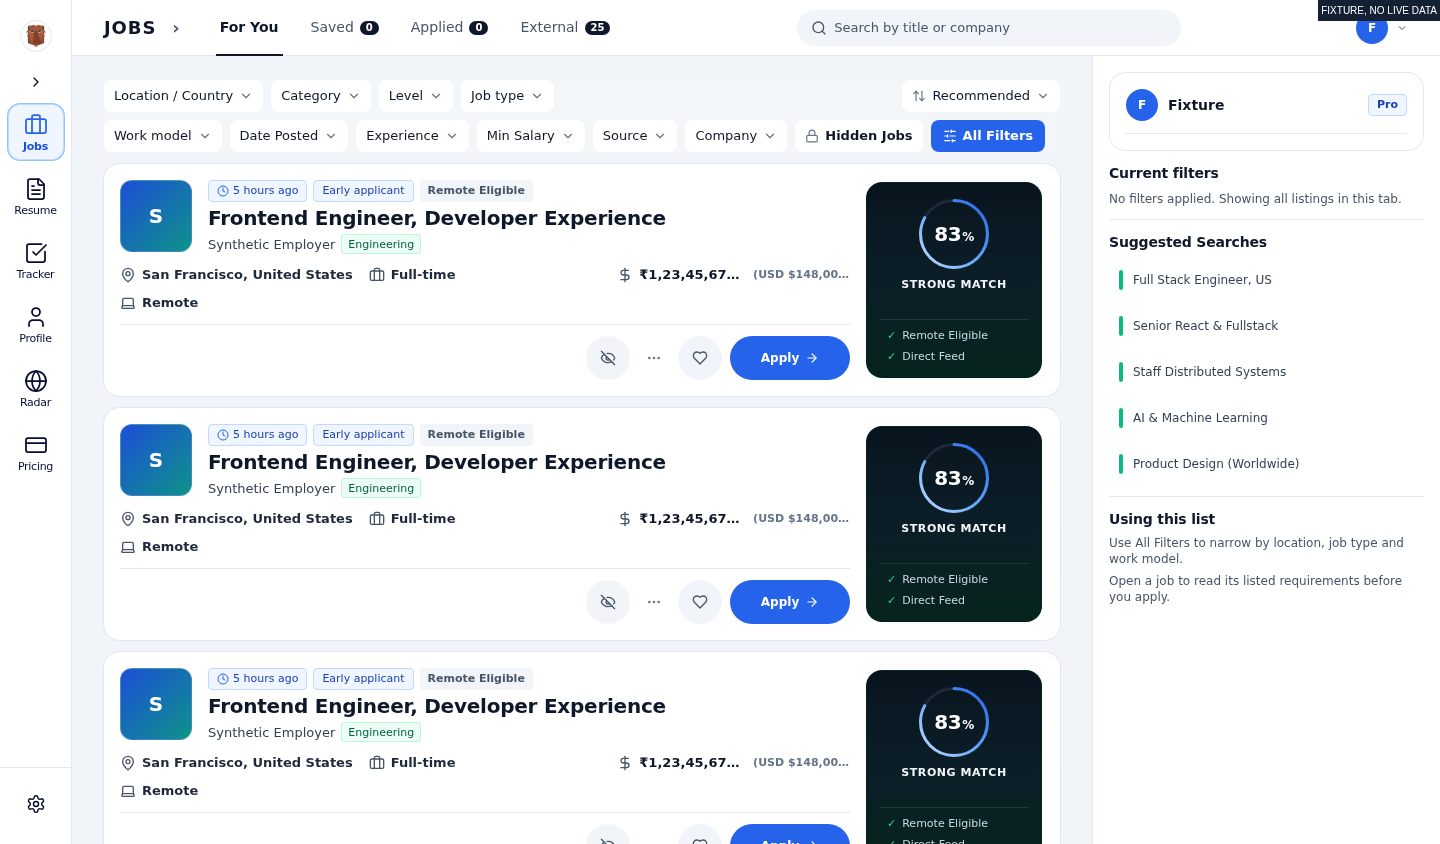
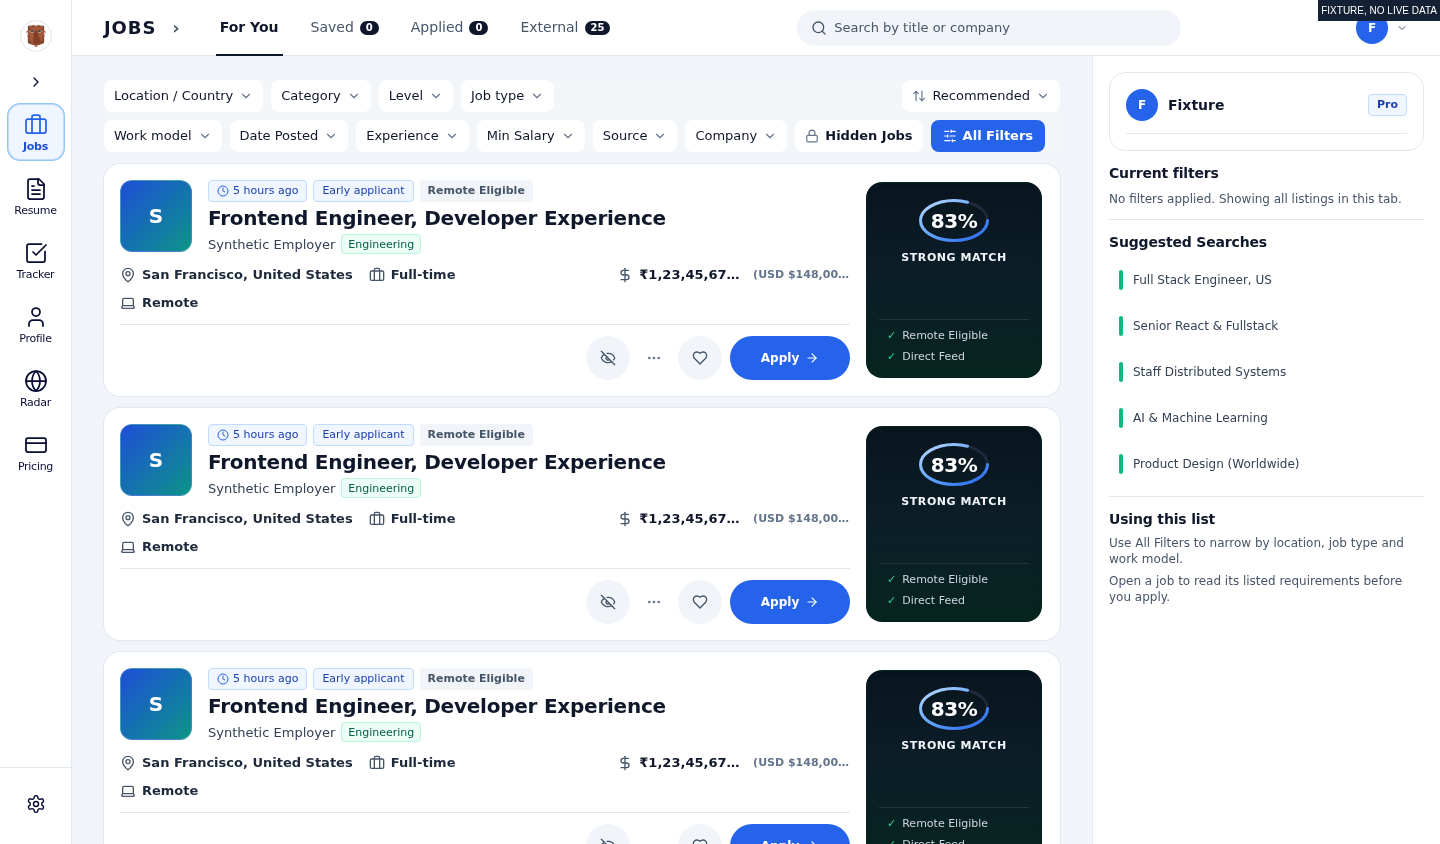
Use oval score outline matching owner reference

Changed region(s): [[0.625, 0.8009, 0.6875, 0.9242], [0.625, 0.5237, 0.6875, 0.6469], [0.625, 0.2156, 0.6875, 0.3389]]

diff --git a/src/app/jobs/page.tsx b/src/app/jobs/page.tsx
@@ -325,17 +325,18 @@ function CircularMatchRing({
 }) {
   const gradientId = `match-blue-${useId().replace(/:/g, "")}`;
   const displayScore = Math.min(100, Math.max(0, score));
-  const radius = (size - strokeWidth) / 2;
-  const circumference = 2 * Math.PI * radius;
-  const offset = circumference - (displayScore / 100) * circumference;
+  const height = Math.round(size * 0.62);
+  const radiusX = (size - strokeWidth) / 2;
+  const radiusY = (height - strokeWidth) / 2;
+  const offset = 100 - displayScore;
   const textClass = size >= 75 ? "text-2xl font-black" : size >= 65 ? "text-xl font-black" : size >= 50 ? "text-[16px] font-bold" : "text-[13px] font-bold";
 
   return (
     <div
       className="relative inline-flex items-center justify-center shrink-0"
-      style={{ width: size, height: size }}
+      style={{ width: size, height }}
     >
-      <svg aria-hidden="true" className="w-full h-full -rotate-90" viewBox={`0 0 ${size} ${size}`}>
+      <svg aria-hidden="true" className="w-full h-full" viewBox={`0 0 ${size} ${height}`}>
         <defs>
           <linearGradient id={gradientId} x1="0%" y1="0%" x2="100%" y2="100%">
             <stop offset="0%" stopColor="#BFDBFE" />
@@ -343,21 +344,24 @@ function CircularMatchRing({
             <stop offset="100%" stopColor="#2563EB" />
           </linearGradient>
         </defs>
-        <circle
+        <ellipse
           cx={size / 2}
-          cy={size / 2}
-          r={radius}
+          cy={height / 2}
+          rx={radiusX}
+          ry={radiusY}
           stroke={light ? "#DBEAFE" : "#1E293B"}
           strokeWidth={strokeWidth}
           fill="transparent"
         />
-        <circle
+        <ellipse
           cx={size / 2}
-          cy={size / 2}
-          r={radius}
+          cy={height / 2}
+          rx={radiusX}
+          ry={radiusY}
           stroke={`url(#${gradientId})`}
           strokeWidth={strokeWidth}
-          strokeDasharray={circumference}
+          pathLength={100}
+          strokeDasharray={100}
           strokeDashoffset={offset}
           strokeLinecap="round"
           fill="transparent"

diff --git a/src/components/jobs/__tests__/mobileCardScore.test.ts b/src/components/jobs/__tests__/mobileCardScore.test.ts
@@ -18,7 +18,9 @@ describe("mobile card score weight (item 19)", () => {
     expect(page).toContain('stopColor="#BFDBFE"');
     expect(page).toContain('stopColor="#2563EB"');
     expect(page).toContain('text-[0.6em]');
-    expect(page).toContain('(displayScore / 100) * circumference');
+    expect(page).toContain('const offset = 100 - displayScore;');
+    expect(page).toContain('pathLength={100}');
+    expect(page).toContain('<ellipse');
     expect(page).toContain('stroke={light ? "#DBEAFE" : "#1E293B"}');
     expect(page).toContain("+Score");
   });

diff --git a/docs/for-you-feed/VERIFICATION.md b/docs/for-you-feed/VERIFICATION.md
@@ -26,3 +26,7 @@ Owner supplied the score-ring reference on Nov24 at 16:54. Feed rings retain the
 Normal flow now has only sentinel and non-interactive loading status. Button appears only for error or paused empty/duplicate-page recovery. No remaining count on any screen. Native IO checks repeated at 360/390/768/1440: 50 idle then 75 on fresh End. After 75 cards, DOM asserts no Load More button and captures at 390/1440 show the last card, sentinel gap and footer with no button. Fresh-input gate unchanged.
 
 100 focused tests pass again; typecheck passes. Updated ring screenshots inspected at all four widths. Only fixture pixels, not live score accuracy evidence.
+
+## Oval refinement
+
+Owner clarified oval rather than circular on Nov24 at 17:04. Ring width/placement retained, height is 62% of width; the thin blue gradient and small percent sign remain. Native ellipse uses normalized pathLength=100, so partial arc length follows the actual score without an approximate circumference. Typecheck and ring tests pass; native scroll/no-button checks repeated at all four widths. Settled 390/1440 screenshots inspected.
